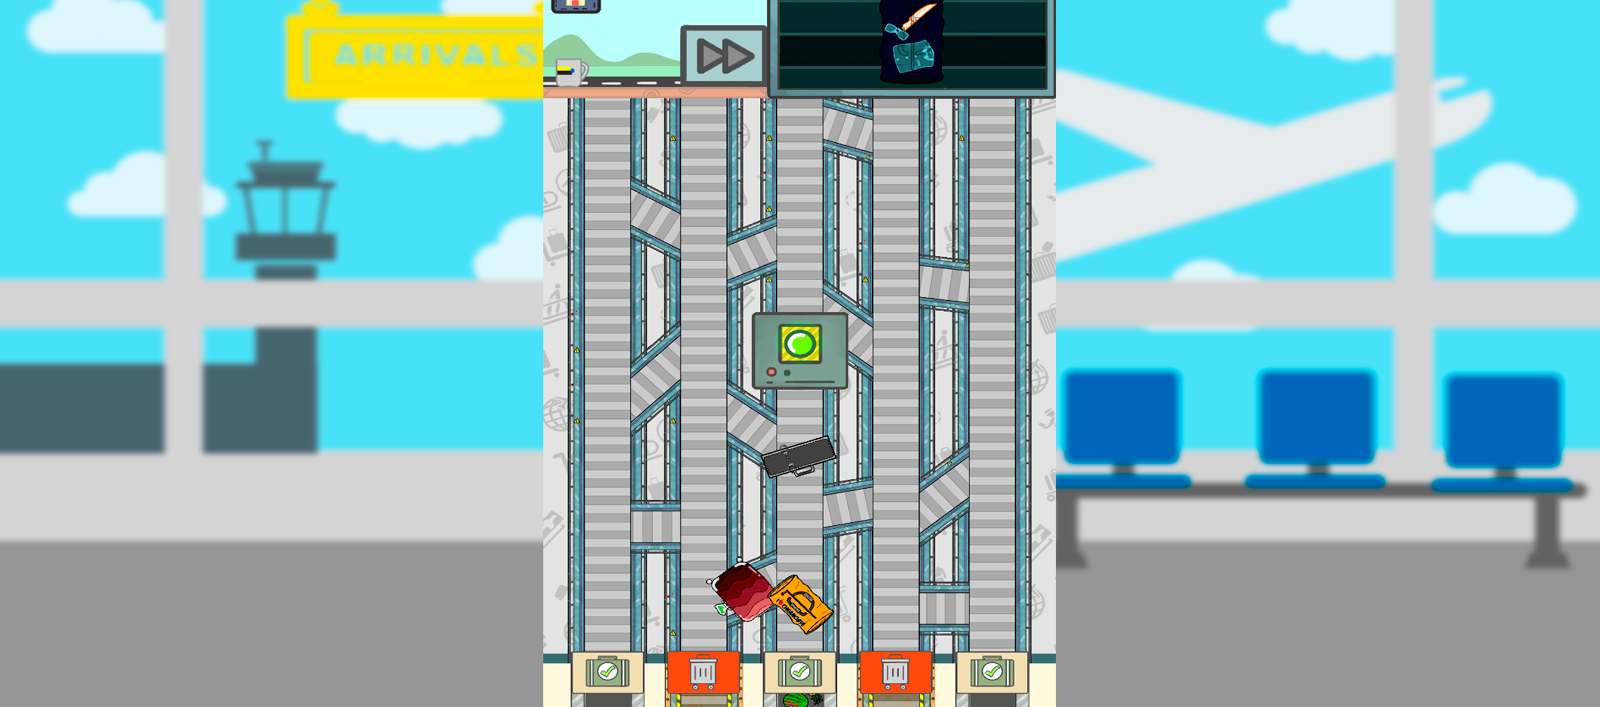
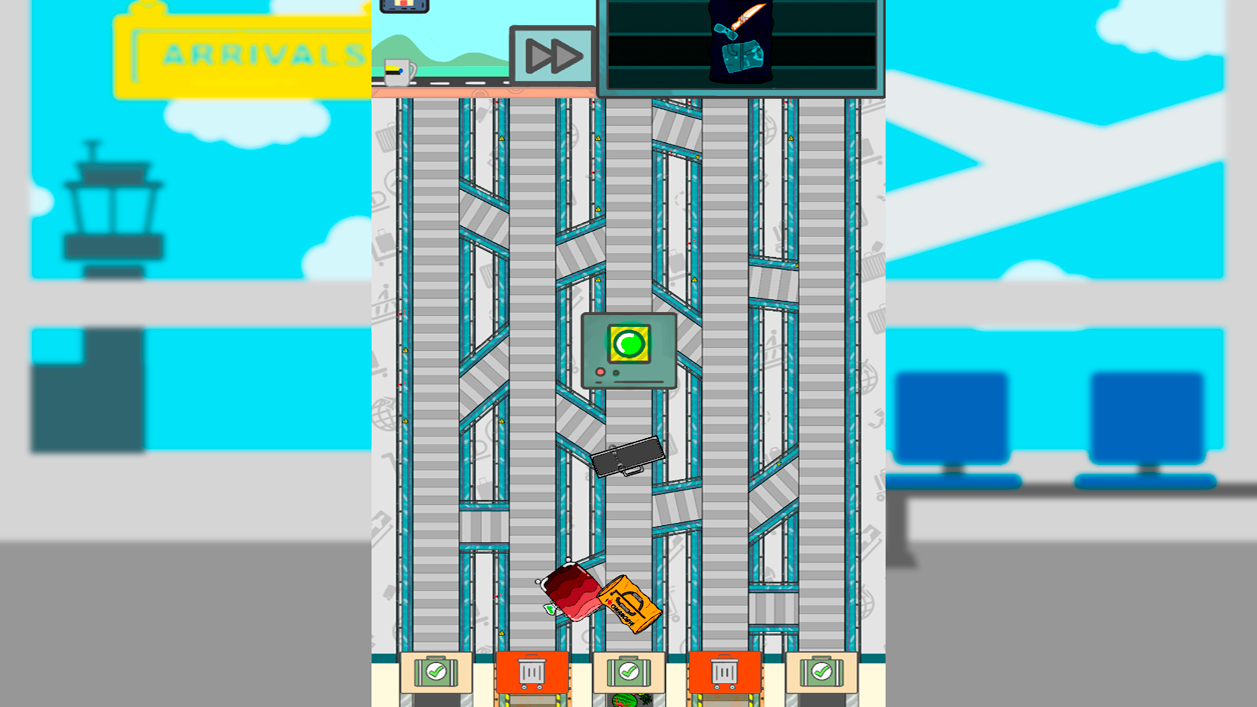
Fotos gameplay metidas al carousel

diff --git a/index.html b/index.html
@@ -53,12 +53,17 @@
   <header class="masthead bg-primary text-white text-center">
     <div class="container-fluid">
       <!--Carousel-->
-      <div id="carousel-header" class="carousel slide" data-ride="carousel">
+      <div id="carousel-header" class="carousel slide" data-ride="carousel" data-interval="2000">
         <!--Indicadores-->
         <ol class="carousel-indicators">
           <li data-target="#carousel-header" data-slide-to="0" class="active"></li>
           <li data-target="#carousel-header" data-slide-to="1"></li>
           <li data-target="#carousel-header" data-slide-to="2"></li>
+          <li data-target="#carousel-header" data-slide-to="3"></li>
+          <li data-target="#carousel-header" data-slide-to="4"></li>
+          <li data-target="#carousel-header" data-slide-to="5"></li>
+          <li data-target="#carousel-header" data-slide-to="6"></li>
+          <li data-target="#carousel-header" data-slide-to="7"></li>
         </ol>
 
         <!--Contenido-->
@@ -66,13 +71,33 @@
           <div class="carousel-item active">
             <img id="imgCarousel" class="d-block w-100" src="img/carousel/baggageAndGarbage_1.png" alt="First slide">
           </div>   
-                
+
           <div class="carousel-item">
-            <img id="imgCarousel" class="d-block w-100" src="img/carousel/baggageAndGarbage_2.png" alt="Second slide">
+            <img id="imgCarousel" class="d-block w-100" src="img/carousel/tongued_0.png" alt="Second slide">
           </div>
 
           <div class="carousel-item">
-            <img id="imgCarousel" class="d-block w-100" src="img/carousel/baggageAndGarbage_3.png" alt="Third slide">
+            <img id="imgCarousel" class="d-block w-100" src="img/carousel/baggageAndGarbage_2.png" alt="Third slide">
+          </div>
+
+          <div class="carousel-item">
+            <img id="imgCarousel" class="d-block w-100" src="img/carousel/tongued_1.png" alt="Fourth slide">
+          </div>
+
+          <div class="carousel-item">
+            <img id="imgCarousel" class="d-block w-100" src="img/carousel/baggageAndGarbage_3.png" alt="Fifth slide">
+          </div>
+
+          <div class="carousel-item">
+            <img id="imgCarousel" class="d-block w-100" src="img/carousel/tongued_2.png" alt="Sixth slide">
+          </div>
+
+          <div class="carousel-item">
+            <img id="imgCarousel" class="d-block w-100" src="img/carousel/baggageAndGarbage_4.png" alt="Seventh slide">
+          </div>
+
+          <div class="carousel-item">
+            <img id="imgCarousel" class="d-block w-100" src="img/carousel/tongued_4.png" alt="Eighth slide">
           </div>
 
           <!--Texto-->
@@ -91,6 +116,14 @@
           </div>
         </div>
 
+        <a class="carousel-control-prev" href="#carousel-header" role="button" data-slide="prev">
+          <span class="carousel-control-prev-icon" aria-hidden="true"></span>
+          <span class="sr-only">Previous</span>
+        </a>
+        <a class="carousel-control-next" href="#carousel-header" role="button" data-slide="next">
+          <span class="carousel-control-next-icon" aria-hidden="true"></span>
+          <span class="sr-only">Next</span>
+        </a>
        </div>
 
 
@@ -395,7 +428,7 @@
                   <div class="divider-custom-line"></div>
                 </div>
                 <!-- Tongued Gameplay Image -->
-                <img class="img-fluid rounded mb-5" src="img/logos/tongued.png" alt="">
+                <img class="img-fluid rounded mb-5" src="img/gameplay/tongued.png" alt="">
                 <!-- Tongued Description -->
                 <div>
                   <p class="mb-5">Keep your friends tongued, and your enemies... tongueder?</p>

diff --git a/css/freelancer.css b/css/freelancer.css
@@ -6007,7 +6007,7 @@ a.close.disabled {
   margin-right: -100%;
   -webkit-backface-visibility: hidden;
   backface-visibility: hidden;
-  transition: transform 0.6s ease-in-out;
+  transition: transform 0.2s ease-in-out;
   
 }
 
@@ -6061,7 +6061,7 @@ a.close.disabled {
 .carousel-fade .active.carousel-item-right {
   z-index: 0;
   opacity: 0;
-  transition: 0s 0.6s opacity;
+  transition: 0s 0.2s opacity;
 }
 
 @media (prefers-reduced-motion: reduce) {
